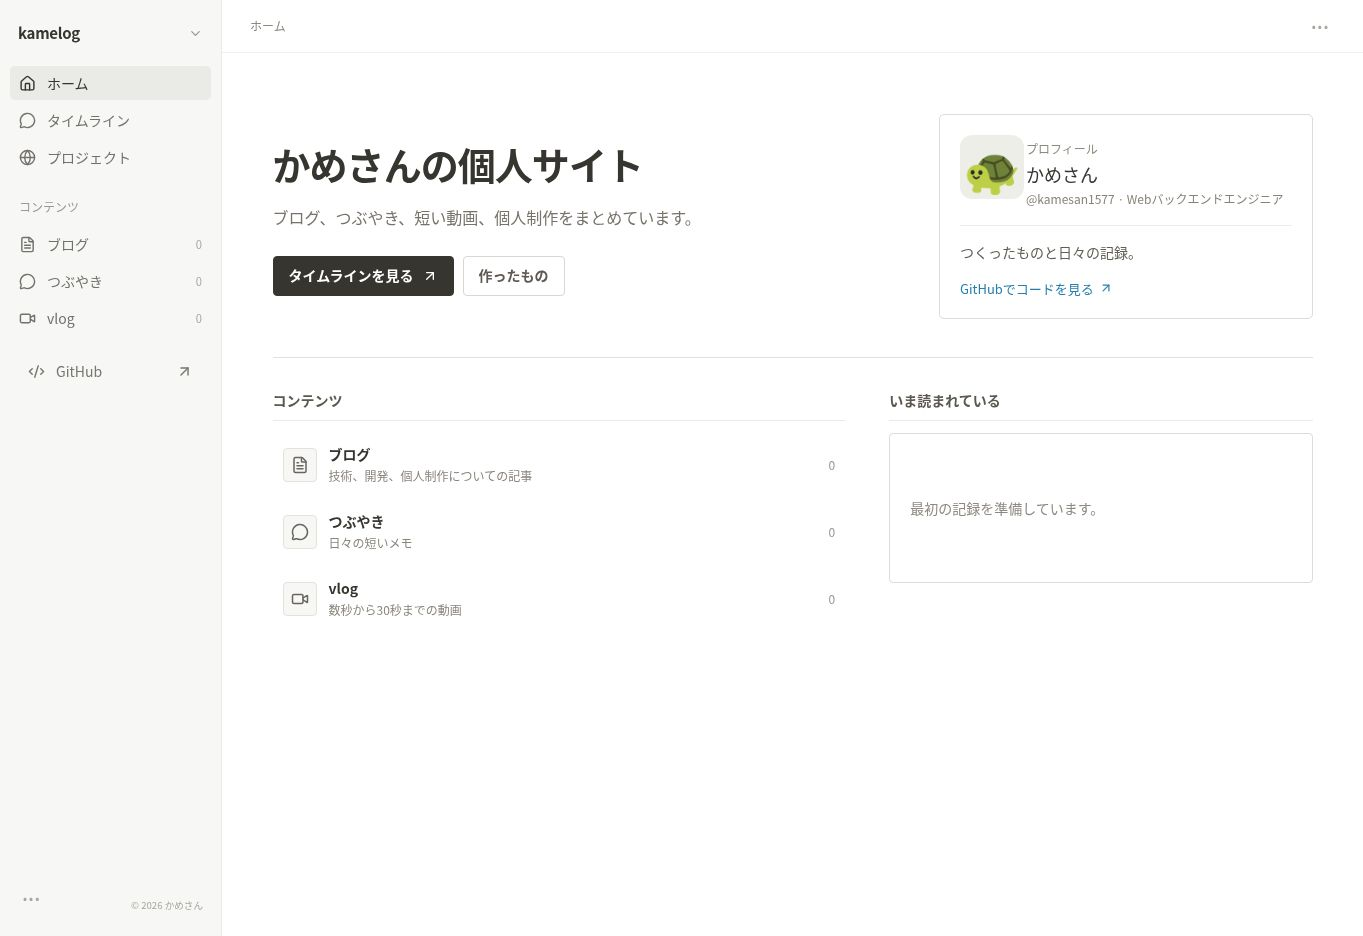
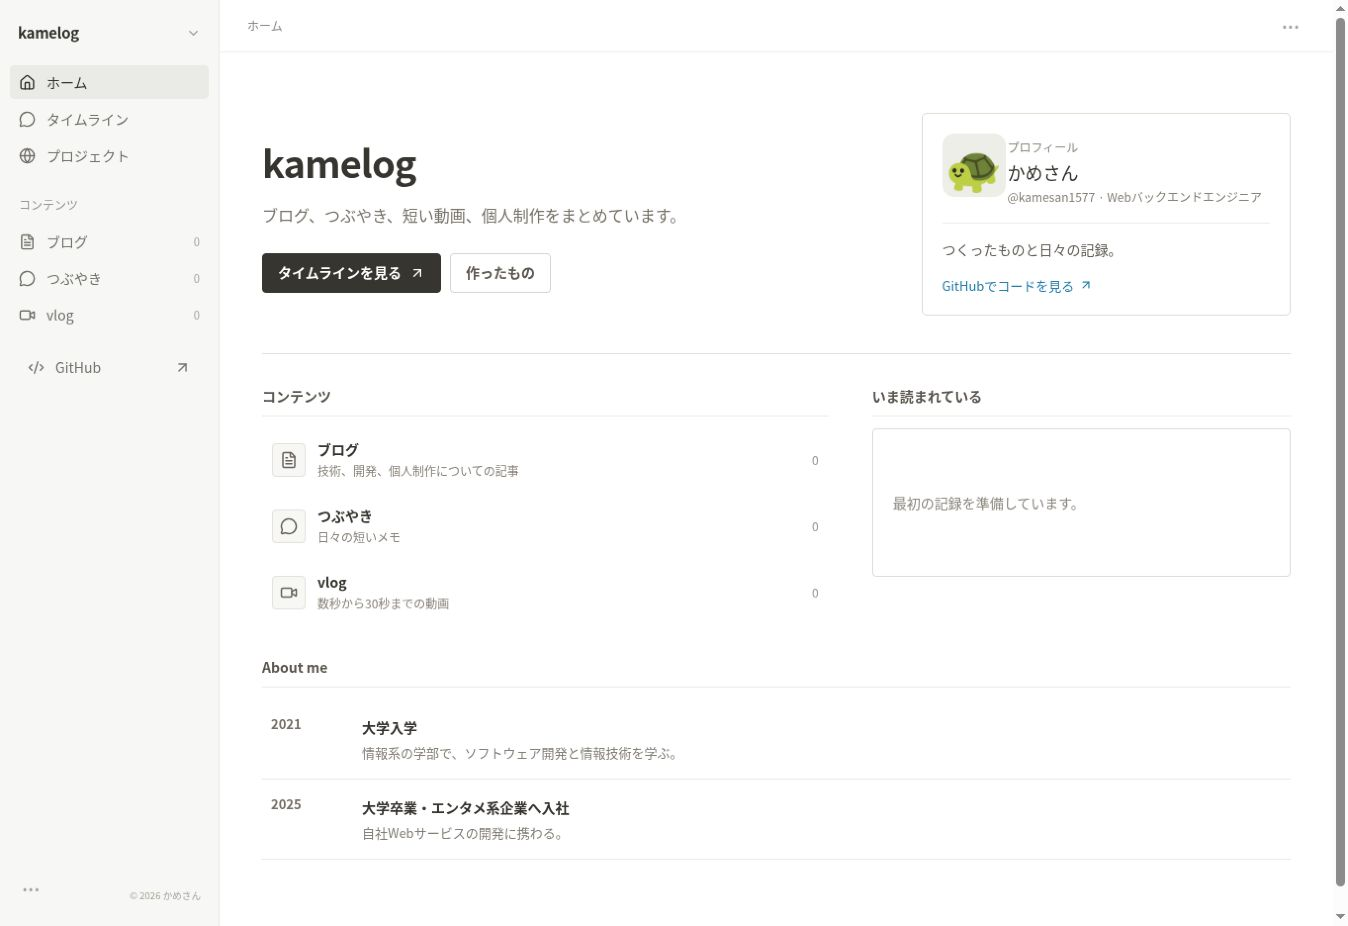
feat: add about timeline and post view counts

diff --git a/app/notebook.tsx b/app/notebook.tsx
@@ -73,6 +73,7 @@ type Post = {
   updatedAt?: string;
   tags: string[];
   likes: number;
+  views?: number;
   video?: string;
   time?: string;
   pinned?: boolean;
@@ -547,6 +548,25 @@ export default function Notebook({
         localStorage.setItem("kamelog-likes", JSON.stringify(liked));
       } catch {}
   }, [liked, ready]);
+  useEffect(() => {
+    if (!selected) return;
+    const key = `kamelog-viewed:${selected}`;
+    try {
+      if (sessionStorage.getItem(key)) return;
+      sessionStorage.setItem(key, "1");
+    } catch {}
+    void api<Post>(`posts/${selected}/view`, "POST", {})
+      .then((viewed) =>
+        setPosts((current) =>
+          current.map((post) => (post.id === viewed.id ? viewed : post)),
+        ),
+      )
+      .catch(() => {
+        try {
+          sessionStorage.removeItem(key);
+        } catch {}
+      });
+  }, [selected]);
   useEffect(() => {
     if (live.current && stream) live.current.srcObject = stream;
   }, [stream, editor, kind, vMode]);
@@ -1055,7 +1075,7 @@ export default function Notebook({
     .sort((a, b) => b.count - a.count || a.name.localeCompare(b.name, "ja"));
   const visibleTags = tags.slice(0, visibleTagCount);
   const featuredPost = [...posts].sort(
-    (a, b) => b.likes - a.likes || b.date.localeCompare(a.date),
+    (a, b) => (b.views ?? 0) - (a.views ?? 0) || b.date.localeCompare(a.date),
   )[0];
   const item = posts.find((p) => p.id === selected);
   const postUrl = (id: string) => {
@@ -1445,7 +1465,7 @@ export default function Notebook({
                 <section className="landing-page">
                   <div className="landing-intro">
                     <div className="landing-copy">
-                      <h1>かめさんの個人サイト</h1>
+                      <h1>kamelog</h1>
                       <p className="landing-lead">
                         ブログ、つぶやき、短い動画、個人制作をまとめています。
                       </p>
@@ -1545,7 +1565,7 @@ export default function Notebook({
                               { month: "numeric", day: "numeric" },
                             )}
                             <span>·</span>
-                            <Heart size={12} /> {featuredPost.likes}
+                            <Eye size={12} /> {featuredPost.views ?? 0}
                           </span>
                           <strong>
                             {featuredPost.kind === "blog"
@@ -1563,6 +1583,33 @@ export default function Notebook({
                       )}
                     </div>
                   </div>
+
+                  <section
+                    className="landing-about"
+                    aria-labelledby="about-title"
+                  >
+                    <div className="landing-section-title">
+                      <h2 id="about-title">About me</h2>
+                    </div>
+                    <ol className="career-list">
+                      <li>
+                        <time dateTime="2021">2021</time>
+                        <div>
+                          <strong>大学入学</strong>
+                          <p>
+                            情報系の学部で、ソフトウェア開発と情報技術を学ぶ。
+                          </p>
+                        </div>
+                      </li>
+                      <li>
+                        <time dateTime="2025">2025</time>
+                        <div>
+                          <strong>大学卒業・エンタメ系企業へ入社</strong>
+                          <p>自社Webサービスの開発に携わる。</p>
+                        </div>
+                      </li>
+                    </ol>
+                  </section>
                 </section>
               ) : (
                 <>

diff --git a/tests/e2e/journeys.spec.ts b/tests/e2e/journeys.spec.ts
@@ -8,9 +8,11 @@ test("anonymous UI and passkey owner journey on desktop and mobile", async ({
   await page.setViewportSize({ width: 1280, height: 900 });
   await page.goto("/");
   await expect(
-    page.getByRole("heading", { name: "かめさんの個人サイト" }),
+    page.getByRole("heading", { name: "kamelog", exact: true }),
   ).toBeVisible();
   await expect(page.getByText("プロフィール", { exact: true })).toBeVisible();
+  await expect(page.getByRole("heading", { name: "About me" })).toBeVisible();
+  await expect(page.getByText("大学卒業・エンタメ系企業へ入社")).toBeVisible();
   await expect(
     page.locator(".content-cards").getByRole("button", { name: /ブログ/ }),
   ).toBeVisible();
@@ -287,6 +289,14 @@ test("anonymous UI and passkey owner journey on desktop and mobile", async ({
 
   const openedPostId = new URL(page.url()).searchParams.get("post");
   expect(openedPostId).toBeTruthy();
+  await expect
+    .poll(async () =>
+      page.evaluate(async (id) => {
+        const response = await fetch(`/api/posts/${id}`);
+        return ((await response.json()) as { views: number }).views;
+      }, openedPostId),
+    )
+    .toBe(1);
   await page.getByRole("button", { name: "戻る", exact: true }).click();
   await expect(
     page.getByRole("heading", { name: "タイムライン", exact: true }),
@@ -315,8 +325,9 @@ test("anonymous UI and passkey owner journey on desktop and mobile", async ({
 
   await page.locator(".site-name").click();
   await expect(
-    page.getByRole("heading", { name: "かめさんの個人サイト" }),
+    page.getByRole("heading", { name: "kamelog", exact: true }),
   ).toBeVisible();
+  await expect(page.locator(".featured-post")).toContainText("架空のブログ");
   expect(new URL(page.url()).searchParams.has("post")).toBe(false);
   await page.goBack();
   await expect(page.locator(".detail-page")).toBeVisible();
@@ -326,7 +337,7 @@ test("anonymous UI and passkey owner journey on desktop and mobile", async ({
   await expect(page.locator(".detail-page")).toBeVisible();
   await page.getByRole("button", { name: "戻る", exact: true }).click();
   await expect(
-    page.getByRole("heading", { name: "かめさんの個人サイト" }),
+    page.getByRole("heading", { name: "kamelog", exact: true }),
   ).toBeVisible();
   expect(new URL(page.url()).searchParams.has("post")).toBe(false);
   await page

diff --git a/app/landing.css b/app/landing.css
@@ -129,6 +129,43 @@
   padding-top: 32px;
 }
 
+.landing-about {
+  margin-top: 34px;
+}
+
+.career-list {
+  margin: 0;
+  padding: 0;
+  list-style: none;
+}
+
+.career-list li {
+  display: grid;
+  grid-template-columns: 74px minmax(0, 1fr);
+  gap: 18px;
+  padding: 15px 9px;
+  border-bottom: 1px solid #eceae5;
+}
+
+.career-list time {
+  color: #777269;
+  font-size: 13px;
+  font-weight: 650;
+}
+
+.career-list strong {
+  color: #37352f;
+  font-size: 14px;
+  font-weight: 650;
+}
+
+.career-list p {
+  margin: 4px 0 0;
+  color: #858078;
+  font-size: 13px;
+  line-height: 1.7;
+}
+
 .landing-section-title {
   margin-bottom: 12px;
   padding-bottom: 9px;
@@ -350,6 +387,16 @@
 
   .landing-lower {
     padding-top: 27px;
+  }
+
+  .landing-about {
+    margin-top: 30px;
+  }
+
+  .career-list li {
+    grid-template-columns: 58px minmax(0, 1fr);
+    gap: 12px;
+    padding: 14px 2px;
   }
 
   .content-cards > button {

diff --git a/HANDOFF.md b/HANDOFF.md
@@ -32,6 +32,7 @@ Issueは作業追跡に限り、チャット内容を読む必要はない。
 - AGENTS、仕様、不変条件、ADR、脅威モデル、runbook、リポジトリ固有skillsを整備。
 - 公開プロフィールは `@kamesan1577`、公開リンクはGitHubとQiitaを表示する。投稿・下書き・設定の実データは初期化しない。
 - インデックスはサイト紹介、公開プロフィール、3種のコンテンツ、プロジェクト、公開投稿から選ぶ人気投稿1件を表示し、投稿一覧は独立したタイムラインとして提供する。
+- インデックスは2021年の情報系大学入学と2025年の卒業・エンタメ系企業入社を経歴として表示する。人気投稿は投稿詳細の閲覧回数で選び、同一タブの再表示を重複加算しない。サーバーは投稿別合計だけを保存する。
 
 ## 検証済み
 
@@ -50,6 +51,7 @@ Issueは作業追跡に限り、チャット内容を読む必要はない。
 - 2026-09-08 Issue #41の追従アクション変更は、CSS契約テストと1280px/390pxのPlaywright回帰で、PCの左sticky railとスマホの下部floating barがスクロール後も同位置に残ることをPR CIで確認する。
 - 2026-09-07 Issue #45のトップページ変更後、`make check`（公開検査、UI契約、型、lint、unit、本番buildを含む）が成功。PCと390pxの匿名表示を実ブラウザで目視し、横方向の見切れがないことを確認した。ローカルE2Eは実行環境にPlaywright Chromiumがないため未実施し、トップからタイムラインへの導線を含むjourneyはPRのCI `e2e` で確認する。
 - 2026-09-08 Issue #45のデザイン修正では、利用者の指示に従い大きなコピー、状態表示風の装飾、走査アニメーション、過剰な影と引用表現を削除した。`make check`が成功し、PCと390pxの匿名表示を実ブラウザで確認した。ローカルE2E用Chromiumは取得がtimeoutしたため、更新したjourneyはPRのCI `e2e` で確認する。
+- 2026-09-08 Issue #45の経歴・閲覧数変更では、既存DBへの追加migration、閲覧数の永続・復元・投稿削除時消去、同一Origin拒否、公開API、閲覧数による人気投稿選択をunit/E2Eへ追加し、`make check`が成功した。PCと390pxの匿名表示を実ブラウザで確認した。ローカル `make e2e` はPlaywright Chromiumが未導入で起動前に失敗したため、PRのCI `e2e` で確認する。
 - 2026-09-08 Issue #14 SEO変更では、実行環境からGitHubをcheckoutできないためローカル `make check` / `make e2e` は未実施。canonical・JSON-LD・robots・sitemap・404の回帰をunit/E2Eへ追加し、PRのCI `check` / `e2e` / `container` で確認する。公開環境の性能値はデプロイ後に `runbooks/seo.md` で再計測する。
 
 ## 対象サーバーでのみ完了できる項目

diff --git a/spec/current/README.md b/spec/current/README.md
@@ -6,7 +6,7 @@
 ## 公開UI
 
 既存 `app/notebook.tsx` と `app/globals.css` の外見を維持する。
-インデックスはサイトの説明、公開プロフィール、ブログ・つぶやき・vlog・プロジェクトへの入口、公開投稿から選んだ人気投稿1件を表示する。タイムラインはインデックスと分離し、ホーム・コンテンツカード・ナビゲーションから移動できる。
+インデックスはサイトの説明、公開プロフィール、経歴、ブログ・つぶやき・vlog・プロジェクトへの入口、公開投稿から閲覧数で選んだ人気投稿1件を表示する。タイムラインはインデックスと分離し、ホーム・コンテンツカード・ナビゲーションから移動できる。
 順序はブログ・つぶやき・vlog。種別・タグ絞り込み、新しい順/いいね順、ホーム内検索、投稿詳細、URL共有、ローカルいいねを提供する。
 プロジェクトはソース管理の公開リンクとして表示する。初期表示は運用者の公開プロジェクトとQiitaを案内する。
 プレビューのPC/スマホ疑似切替は開発用であり本番ホームを囲まない。
@@ -32,6 +32,7 @@ PCホームの画像添付は現在のつぶやきへ媒体を追加する操作
 ## 閲覧と共有
 
 投稿詳細を開くと同一タブの履歴へ `?post=<id>` を追加する。詳細内の「戻る」とブラウザの戻る/進むはURLと表示を同期し、ホーム・プロジェクト・アカウントなど詳細外へ移動した履歴では `post` クエリを残さない。共有URLから直接開いた詳細の「戻る」はサイト外へ離脱せずホームを表示する。`post` 以外の既存クエリは詳細開閉で破棄しない。
+投稿詳細を開いた回数を閲覧数としてサーバーへ記録する。同じタブで同じ投稿を開き直した場合は重複加算せず、IPアドレスや閲覧者識別子は保存しない。
 ブログ詳細では、いいね・リンクコピー・X共有を読書中も常時操作できる追従UIとして表示する。十分な横幅がある画面では本文左側の縦型スティッキーレール、狭い画面では下部のフローティングバーとして表示し、タイムライン上の既存操作は維持する。
 10秒以下のvlogは無音で自動再生し、ループする。10秒を超えるvlogは自動再生しない。自動ループは動画上のボタン1回で停止できる。
 投稿の共有はリンクコピーとX共有を別の操作として提供する。

diff --git a/spec/current/api.md b/spec/current/api.md
@@ -8,6 +8,7 @@
 | GET                       | /api/health                | 生存とschema version                                    |
 | GET                       | /api/posts?kind=&q=        | 公開投稿。kind省略で全種別                              |
 | GET                       | /api/posts/:id             | 公開詳細、存在しなければ404                             |
+| POST                      | /api/posts/:id/view        | 公開詳細の閲覧数を加算                                  |
 | POST / PUT / DELETE       | /api/posts[/id]            | ownerの投稿作成・更新・削除                             |
 | GET / POST / PUT / DELETE | /api/drafts[/id]           | owner限定の下書き                                       |
 | GET / PUT                 | /api/profile               | 公開プロフィール/owner更新                              |
@@ -25,6 +26,7 @@
 
 投稿: kind、title（300文字）、body（ブログ100,000/つぶやき5,000/vlog60）、tags（20件、各40文字）、pinned、video、time、images（つぶやきのみ最大4件）。
 日時・いいね初期値・IDはサーバー生成。API入力で他人のID・過去日時へ差し替えない。
+閲覧数はサーバー生成であり、投稿作成・更新APIから変更できない。閲覧APIは同一Originを要求し、投稿別の合計値だけを保存する。
 公開投稿の `date` は初回公開日時として保持する。公開済みブログのtitleまたはbodyが変更された場合だけ、サーバー生成の `updatedAt` を保存して応答する。固定/解除など本文以外の変更では既存 `updatedAt` を維持する。
 vlogのvideoとつぶやきのimagesは種類が一致する登録済み媒体のAPI pathだけを許可する。timeはHH:mm、captionは改行不可。
 更新はrevisionをbodyに渡す。削除はIf-Matchにrevisionを渡す。競合は409であり無条件上書きしない。

diff --git a/adr/0003-ui-and-quality.md b/adr/0003-ui-and-quality.md
@@ -18,4 +18,4 @@ Issueは作業の追跡、リポジトリ内文書は仕様の正本。
 
 2026-09-07、利用者の明示依頼に基づき、既存のブログ投稿モーダルを維持したままフルページ表示を追加し、編集・リアルタイムプレビュー・左右分割を切り替えられるようにする。狭い画面では分割ペインを上下に配置し、未保存確認と投稿処理は既存モーダルと同じ状態を共有する。
 
-2026-09-07、Issue #45 と利用者の明示依頼に基づき、インデックスをサイト紹介ページへ変更し、投稿一覧を「タイムライン」として独立させる。紹介ページは公開プロフィール、コンテンツ種別、プロジェクト導線、公開投稿からいいね数と新しさで選んだ1件を表示する。既存の管理導線・投稿操作・匿名/オーナー境界は変更しない。
+2026-09-07、Issue #45 と利用者の明示依頼に基づき、インデックスをサイト紹介ページへ変更し、投稿一覧を「タイムライン」として独立させる。紹介ページは公開プロフィール、経歴、コンテンツ種別、プロジェクト導線、公開投稿から閲覧数と新しさで選んだ1件を表示する。既存の管理導線・投稿操作・匿名/オーナー境界は変更しない。

diff --git a/docs/security/threat-model.md b/docs/security/threat-model.md
@@ -4,6 +4,7 @@
 | ------------ | ----------------------------------------- | --------------------------------------------------------------------------------- |
 | WebAuthn     | 偽署名、challenge再利用、別Origin         | 実ライブラリ検証、5分/単回、ceremony cookie、UV必須                               |
 | API          | 未認証書込、CSRF、過大body                | session検証、Origin必須、JSON上限、rate limit                                     |
+| 閲覧数       | 水増し、閲覧者の追跡                      | 同一Origin、専用rate limit、合計値のみ保存、IP・閲覧者識別子を保存しない          |
 | 下書き       | 公開responseやcacheへ漏洩                 | owner専用、全API no-store、公開projectionを明示                                   |
 | 媒体         | traversal、偽形式、画像bomb、CPU/容量枯渇 | opaque ID、magic/dimension検証、bounded FFmpeg、サイズ/画素数/並列数制限          |
 | Markdown     | script実行、危険URL、図へのコード混入     | HTML無効、URL allowlist、React escaping、Mermaid strict mode、埋め込みhost/id検証 |
